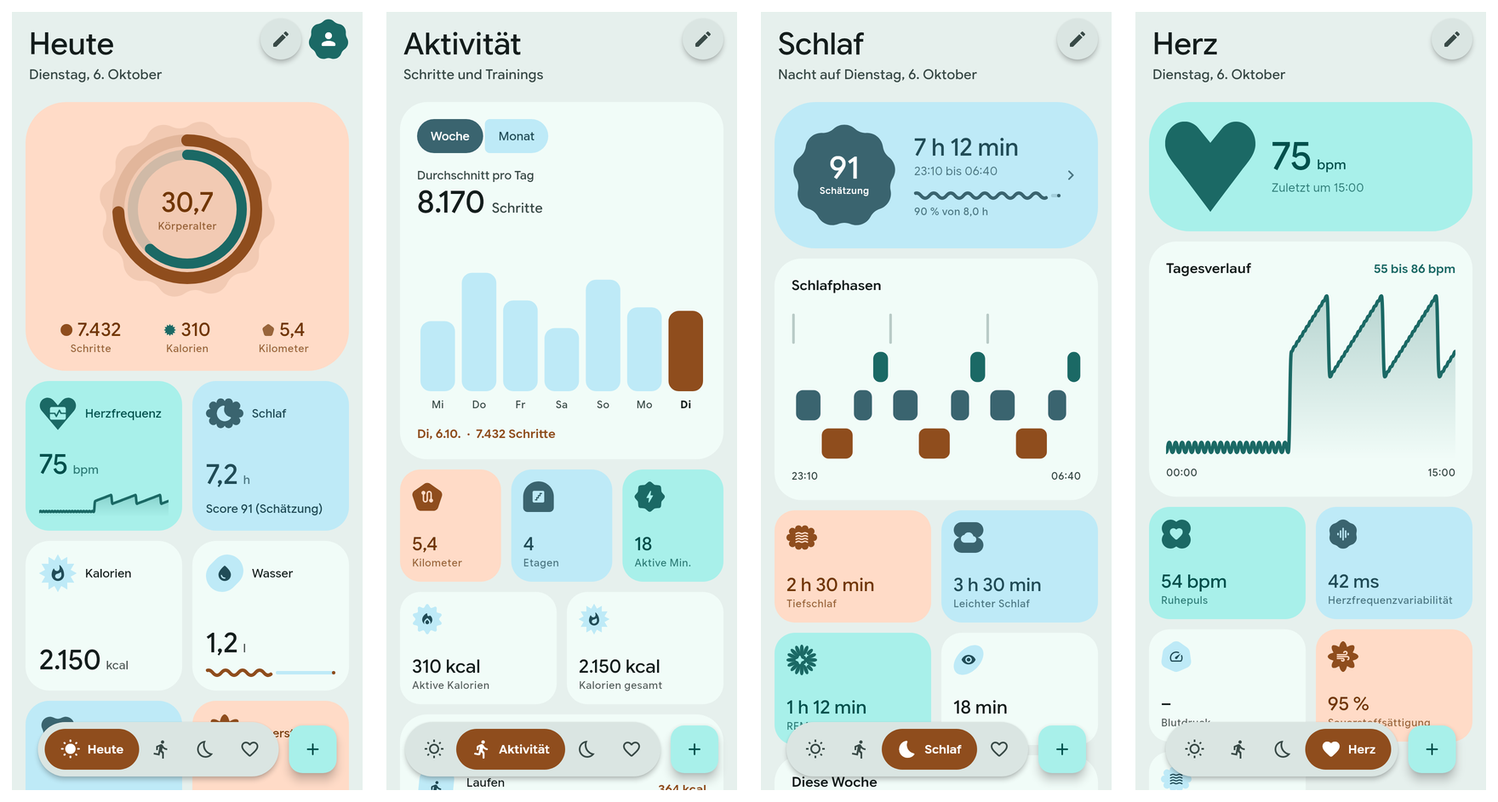
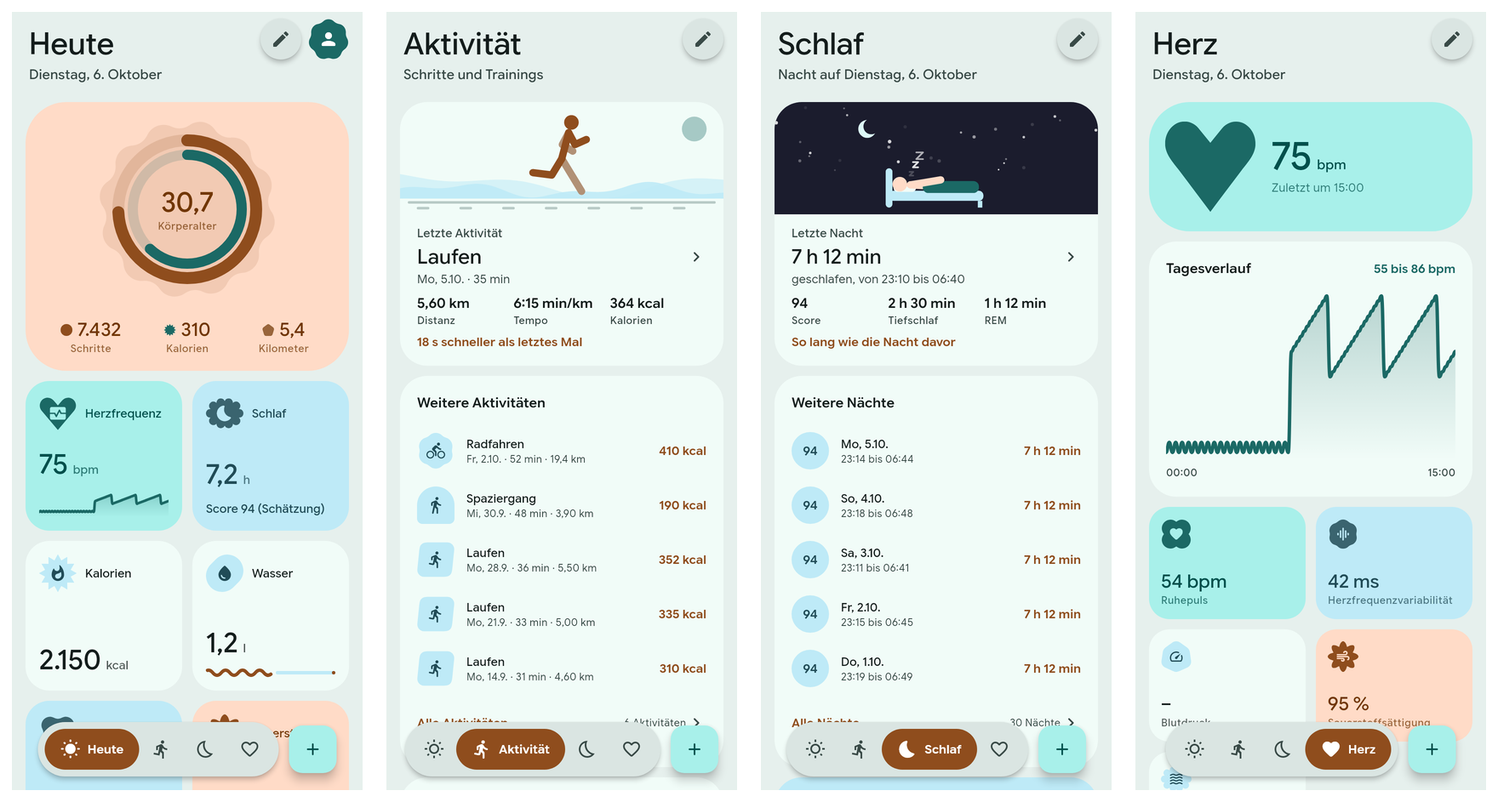
docs: rewrite the README around pages, sleep, activities and Liquid Glass

diff --git a/README.md b/README.md
@@ -1,7 +1,7 @@
 <div align="center">
   <img src="readmestuff/app_icon_512.png" width="96" height="96" alt="Pulse logo" />
   <h1>Pulse</h1>
-  <p><strong>A health app for Android in Material 3 Expressive. It reads your data from Health Connect, keeps up to ten years of daily values on the phone, and sends nothing anywhere.</strong></p>
+  <p><strong>A health app for Android in Material 3 Expressive. It reads your data from Health Connect, keeps up to ten years of it on the phone, and sends nothing anywhere.</strong></p>
 
   <p>
     <img src="https://img.shields.io/badge/Platform-Android%208.0+-neutral?style=flat-square" alt="Platform" />
@@ -9,7 +9,9 @@
     <img src="https://img.shields.io/badge/Design-Material%203%20Expressive-neutral?style=flat-square" alt="Design Language" />
     <img src="https://img.shields.io/badge/Data-Health%20Connect-neutral?style=flat-square" alt="Data Source" />
     <img src="https://img.shields.io/badge/Storage-Local%20JSON-neutral?style=flat-square" alt="Storage" />
+    <img src="https://img.shields.io/badge/Languages-de%20%7C%20en%20%7C%20pl-neutral?style=flat-square" alt="Languages" />
     <img src="https://img.shields.io/badge/Telemetry-None-neutral?style=flat-square" alt="No Telemetry" />
+    <img src="https://img.shields.io/badge/License-MIT-neutral?style=flat-square" alt="License" />
   </p>
 </div>
 
@@ -17,34 +19,50 @@
 
 ![Pulse: Heute, Aktivität, Schlaf and Herz](readmestuff/hero.png)
 
-The screenshots on this page are rendered by the widget tests from **fixture data**, not from a person's health records.
+Every image on this page is rendered by the widget tests from **fixture data**, not from a person's health records. The page names are the German ones; the app also speaks English and Polish.
+
+---
+
+## What It Is
+
+**Pulse** is a **Flutter** app with one data source: **Health Connect** on the phone. Steps, sleep, heart rate, workouts and the rest arrive from the phone, a **Fitbit** or any other app that writes there, without a separate sign-in. There is no server, no account and no analytics, and a release build does not hold the **`INTERNET`** permission.
+
+| Page | Shows | Opens |
+| :--- | :--- | :--- |
+| **Heute** | Today's tiles, chosen and ordered by the user | A metric's period tabs, the body age |
+| **Aktivität** | The latest workout as an animated scene, the five before it, activity metrics | One workout, the list of all workouts |
+| **Schlaf** | The latest night played back, the five before it, a bedtime for tonight | One night, the list of all nights |
+| **Herz** | Heart rate, resting heart rate, variability and the other vitals | A metric's period tabs |
+| **Profil** | Goals, date of birth and sex, theme, Material You, Liquid Glass, language | |
 
 ---
 
 ## Architecture Overview
 
-**Pulse** is a **Flutter** app with one data source: **Health Connect** on the phone. There is no server, no account and no analytics. One file in the code base talks to the **`health`** plugin; everything above it works on plain Dart values and is tested without a device.
+One file in the code base talks to the **`health`** plugin. Everything above it works on plain Dart values and is tested without a device.
 
 ```mermaid
 flowchart TD
     subgraph UI ["Interface Layer"]
-        Shell["App Shell<br/><b>Floating Navigation Bar & FAB Menu</b>"]
+        Shell["App Shell<br/><b>Floating Navigation Bar & Add Menu</b>"]
         Boards["Tile Boards<br/><b>Heute, Aktivität, Schlaf, Herz</b>"]
-        Detail["Detail Pages<br/><b>Period Tabs, Entries, Sleep, Body Age</b>"]
-        Sheet["Entry Sheet<br/><b>Water, Weight, Meals</b>"]
+        Detail["Sub Pages<br/><b>Period Tabs, Night, Workout, Body Age</b>"]
+        Scenes["Scenes<br/><b>Workout Figure, Night Sky</b>"]
+        Glass["Glass Kit<br/><b>Bar, Rim, Scope</b>"]
     end
 
     subgraph State ["State Layer"]
         HealthCtrl["HealthController<br/><b>Access, Refresh, Backfill, Entries</b>"]
-        SettingsCtrl["SettingsController<br/><b>Goals, Theme, Tile Order</b>"]
+        SettingsCtrl["SettingsController<br/><b>Goals, Theme, Tiles, Glass</b>"]
         Palette["System Palette<br/><b>Material You Colours</b>"]
     end
 
     subgraph Data ["Data Layer (pure Dart)"]
         Builder["buildSnapshot<br/><b>Raw Readings to 30 Days</b>"]
         Period["buildPeriod<br/><b>Averages, Bars, Comparison</b>"]
-        Age["estimateBodyAge<br/><b>Years per Factor, 30 Days</b>"]
+        Insights["Insights<br/><b>Body Age, Sleep Score, Hints</b>"]
         History["HistoryArchive<br/><b>One Value per Day, 10 Years</b>"]
+        Archives["Night & Workout Archives<br/><b>Every Night, Every Workout</b>"]
         Store["FileJsonStore<br/><b>Private App Directory</b>"]
     end
 
@@ -55,24 +73,26 @@ flowchart TD
     end
 
     Shell --> Boards
+    Shell --> Glass
     Boards --> Detail
-    Shell --> Sheet
+    Boards --> Scenes
     Boards --> HealthCtrl
     Boards --> SettingsCtrl
-    Detail --> HealthCtrl
     Detail --> Period
-    Detail --> Age
-    Sheet --> HealthCtrl
+    Detail --> Insights
     Shell --> Palette
     HealthCtrl --> Repo
     HealthCtrl --> History
+    HealthCtrl --> Archives
     Repo --> Builder
     Repo --> HC
     Worker --> Repo
     Worker --> History
+    Worker --> Archives
     Period --> History
+    Insights --> Archives
     History --> Store
-    HealthCtrl --> Store
+    Archives --> Store
     SettingsCtrl --> Store
 ```
 
@@ -85,7 +105,7 @@ sequenceDiagram
     participant HC as Health Connect
     participant Disk as FileJsonStore
 
-    App->>Disk: read saved snapshot and year files
+    App->>Disk: read saved snapshot, year files and archives
     App-->>App: show saved data at once
     App->>Repo: load(now)
     Repo->>HC: daily totals (aggregated), samples, sleep, workouts
@@ -93,10 +113,11 @@ sequenceDiagram
     Repo-->>App: snapshot of 30 days
     App->>Disk: write snapshot
     App->>Disk: merge days into history-YYYY
+    App->>Disk: merge nights and workouts into their archives
     opt first run with history access
-        App->>Repo: loadHistory in 90-day stretches, backwards
-        Repo-->>App: one value per day and metric
-        App->>Disk: merge, remember how far it got
+        App->>Repo: older days, nights and workouts in 90-day stretches, backwards
+        Repo-->>App: one stretch at a time
+        App->>Disk: merge, remember how far each load got
     end
 ```
 
@@ -104,42 +125,101 @@ sequenceDiagram
 
 ## Core Capabilities
 
-- **Health Connect as the Only Source:** Steps, distance, calories, sleep, heart rate and the rest come from **Health Connect**, so data from the phone, a **Fitbit** or any other app that writes there shows up without a separate sign-in.
-- **No Double Counting:** Daily totals use Health Connect's own **aggregation**, which removes the overlap when a phone and a wearable both count the same steps.
-- **Four Pages of Tiles:** **Heute**, **Aktivität**, **Schlaf** and **Herz**. **Heute** always shows the current day.
-- **Your Own Heute Page:** In edit mode every tile has a **minus** to remove it, and a list below the board offers every measurement Health Connect has data for, each with a **plus**. Every tile comes in two sizes: **small** (half width, the value) and **large** (full width, with the last seven days as bars, or today's curve for the heart rate).
-- **Steps Tile with Two Rings and a Body Age:** The large steps tile draws the steps as the outer ring and the **active calories** as the inner one, each against its goal, with steps, calories and distance underneath. In the middle is the **body age**: the real age plus or minus some years for steps, intensity minutes, sleep duration, sleep rhythm, resting heart rate, heart rate variability, body mass index or body fat, blood pressure and strength training over the last 30 days. Tapping it opens a page that lists every factor with your value, the value it is judged against and the years it adds or takes. It needs the **date of birth** from the profile.
-- **Latest Value for Rare Measurements:** Weight, blood pressure, the one resting heart rate a day and similar show the most recent reading, on a tile and on the detail page's **Heute** tab, with its day instead of a dash when there is none today. Totals such as steps stay strictly on today.
-- **Period Tabs on Every Metric:** Tapping a tile opens **Heute**, **Gestern**, **Woche**, **Monat**, **Jahr** and **Gesamt** in a toolbar floating at the bottom of the page, each with its average, a bar chart, the highest and lowest value, a sentence comparing it to the span before, and arrows to page back. Sleep is the exception: its tile opens the detailed sleep page from everywhere.
-- **Detailed Sleep Page:** For the selected night: time asleep and in bed, efficiency, the stages as a hypnogram and each against a guide range, bedtime and waking of the last 30 nights, the sleep debt of seven nights, the pulse during the night, and the night's vitals against your own usual range.
-- **Ten Years of History:** One value per day and metric is kept in one **JSON** file per calendar year. Older data already in Health Connect is loaded once, in **90-day** stretches.
-- **Edit Mode:** The pencil floating at the top right of a page makes the tiles wiggle. Hold one and drag it; the others move out of the way and the order is saved per page. On **Aktivität**, **Schlaf** and **Herz** a **minus** takes a tile off the page and a list below the board brings it back; the compact measurement tiles there can be enlarged to the wide form with the last seven days.
-- **All Measurements on Demand:** A switch that only appears in edit mode appends every metric with data to the **Heute** page, grouped by kind.
-- **Own Entries:** Add **water**, **weight** and **meals** (calories, carbohydrates, protein, fat, fibre, sugar) from the **+** button. They are written to Health Connect. Entries made by Pulse can be edited and deleted; entries from other apps are shown but cannot be changed, because Health Connect does not allow it.
-- **Three Languages:** German, English and Polish, with numbers, dates and plurals written as each language does (**7.432** / **7,432** / **7 432**; "1 krok, 2 kroki, 5 kroków"). The app follows the system language and falls back to English for any other. A row in the profile opens a sheet with **System / Deutsch / English / Polski**. On **Android 13** and newer the choice is the language Android keeps per app, so the system's own *App languages* page and the profile show and set the same value; before that it is a setting of the app. Units stay metric in every language. The page names in this document are the German ones. ***Tested*** by widget tests of every page in English and Polish at both screen sizes, and on an **Android 17** emulator: the choice set in the profile was read back with `cmd locale get-app-locales`, a change made from the system side rebuilt the open app, and the system's page lists exactly the three languages. The Polish text is not reviewed by a native speaker.
-- **Material You:** The colour scheme follows the phone's wallpaper. It can be switched off in the profile, which falls back to the app's own palette. Light, dark or system.
-- **No App Bar:** No page has a fixed bar at its top; the content scrolls behind the transparent **status bar**. On the four main pages the **pencil** and, on **Heute**, the **profile button** float at the top right and stay there while the page scrolls. A page opened from another one has a round floating **back button**; once its large title has scrolled away, a **pill** with the page's name appears next to the button. ***Tested*** by widget tests with a simulated status bar and by stills of an **Android 17** emulator in both themes, with and without glass. Not looked at on a phone.
-- **Navigation:** The selected pill of the floating bar can be dragged to another destination; the page changes when it is let go. The period tabs of a metric work the same way.
-- **Liquid Glass:** A switch in the profile turns the **navigation bar**, the **period tabs**, the **floating buttons** and title pill at the top, the **add button** and its menu into clear glass that bends the page beneath it at its edge, and the tiles into translucent glass over soft colour fields. The selected pill is a second piece of glass lying on its bar, tinted in the primary colour; while it is dragged it becomes a clear lens. The entries of the add button flow out of it as drops. The light **rim** and the **shadow** of each piece are painted by the app, not by the renderer. Shapes, colours and motion stay Material 3 Expressive. Off by default. ***Tested*** by widget tests in a blurred fallback and by stills and a screen recording on a **Pixel 8** emulator under **Vulkan**, in the light theme. On a **Pixel 10 Pro** this state is ***built*** only; an earlier one was recorded there.
-- **Background Refresh:** A **WorkManager** task refreshes the stored data about once an hour, so the app opens with current values and no day is lost if it stays closed for longer than Health Connect's 30-day window.
-- **Haptics:** Distinct feedback for selecting, tapping, lifting a tile and confirming.
-- **Spring Motion and Shapes:** Page changes, tile movement and the container transform into a detail page run on **Material 3 Expressive** spring tokens; badges and the profile button use the expressive shape set. The shape behind the rings of the steps tile turns once in **90 seconds** and stands still when the system switches animations off.
+- **Health Connect as the Only Source:** Daily totals use Health Connect's own **aggregation**, which removes the overlap when a phone and a wearable both count the same steps.
+- **Your Own Heute Page:** In edit mode every tile has a **minus** to remove it, and a list below the board offers every measurement with data, each with a **plus**. Every tile comes in two sizes: **small** (half width, the value) and **large** (full width, with the last seven days as bars, or today's curve for the heart rate).
+- **Edit Mode:** The floating **pencil** makes the tiles wiggle. Hold one and drag it; the others move out of the way and the order is saved per page. Tiles on **Aktivität**, **Schlaf** and **Herz** can be removed, brought back and enlarged the same way.
+- **Period Tabs on Every Metric:** **Heute**, **Gestern**, **Woche**, **Monat**, **Jahr** and **Gesamt** in a toolbar floating at the bottom, each with its average, a bar chart, the highest and lowest value, a sentence comparing it to the span before, and arrows to page back.
+- **Latest Value for Rare Measurements:** Weight, blood pressure and the one resting heart rate a day show the most recent reading with its day instead of a dash. Totals such as steps stay strictly on today.
+- **Ten Years of History:** One value per day and metric in one **JSON** file per calendar year. Older data already in Health Connect is loaded once, in **90-day** stretches.
+- **Own Entries:** **Water**, **weight** and **meals** (calories, carbohydrates, protein, fat, fibre, sugar) from the **+** button, written to Health Connect. Entries made by Pulse can be edited and deleted; entries from other apps cannot, because Health Connect does not allow it.
+- **No App Bar:** Content scrolls behind the transparent **status bar**. The **pencil** and the **profile button** float at the top right; a sub page has a round floating **back button** and, once its title has scrolled away, a **pill** with the page's name.
+- **Draggable Navigation:** The selected pill of the floating bar can be dragged to another destination; the page changes when it is let go. The period tabs work the same way.
+- **Three Languages:** **German**, **English** and **Polish**, with numbers, dates and plurals as each language writes them (**7.432** / **7,432** / **7 432**). On **Android 13** and newer the choice is the language Android keeps per app; before that it is a setting of the app. Any other system language gets English. Units stay metric.
+- **Material You:** The colour scheme follows the phone's wallpaper, or the app's own palette when switched off. Light, dark or system.
+- **Background Refresh:** A **WorkManager** task refreshes the stored data about once an hour, so no day is lost if the app stays closed for longer than Health Connect's 30-day window.
+- **Motion, Shapes and Haptics:** Page changes, tile movement and the container transform into a sub page run on **Material 3 Expressive** spring tokens, with the expressive shape set and distinct haptics for selecting, tapping, lifting and confirming. **Predictive back** shrinks the page under the finger.
 
 ![The floating period tabs on the steps metric: Heute, Woche, Jahr and Gesamt](readmestuff/detail.png)
 
+![Edit mode with a lifted tile, the list of tiles to add, tiles in both sizes, and the dark theme](readmestuff/editing.png)
+
+---
+
+## Steps and Body Age
+
+The large steps tile draws the **steps** as the outer ring and the **active calories** as the inner one, each against its goal, over a shape that turns once in **90 seconds**. In the middle is the **body age**: the real age plus or minus some years, judged over the last 30 days.
+
+| Factor | Read From |
+| :--- | :--- |
+| **Movement** | Steps, intensity minutes, strength training |
+| **Sleep** | Duration, regularity of bedtime and waking |
+| **Heart** | Resting heart rate, heart rate variability, blood pressure |
+| **Body** | Body fat, or body mass index when there is none |
+
+Tapping the age opens a page that lists every factor with your value, the value it is judged against and the years it adds or takes. It needs the **date of birth** from the profile.
+
 ![The steps tile with both rings and the body age, and the page that explains the age factor by factor](readmestuff/age.png)
 
-![Edit mode with a lifted tile, the list of tiles to add, tiles in both sizes, and the dark theme](readmestuff/editing.png)
+---
+
+## Sleep
+
+- **The Night Played Back:** At the top of **Schlaf** the latest night runs in twelve seconds. The moon crosses a sky that follows the stages (darkest in deep sleep, dawn at the end), with more stars the better the score and clouds on a poor night. Beneath it a figure sleeps in bed: it snores in deep sleep, dreams in REM and sits up whenever the user was awake.
+- **A Page per Night:** The **score** with what each of its four parts gave, time asleep and in bed, efficiency, the stages as blocks that name the one under the finger, each stage against a guide range, bedtime and waking of the 30 days up to it, the sleep debt of seven nights, and the pulse and measurements of the night.
+- **Comparison:** Every number against the night before and the average of the week before.
+- **Observations:** How nights after a workout, or after a day above the step goal, differ. They need five nights on each side and ten minutes of difference, and are worded as what went together, not as a cause.
+- **Hints:** Up to three, from fixed rules over the user's own numbers. Not medical advice.
+- **Tonight:** A bedtime counted back from the usual time of getting up, a little earlier while the week is in debt.
+- **All Nights:** Every night the app has seen is kept in an archive of its own, one file per year, and listed.
+
+| Part of the Score | Points | Judged Against |
+| :--- | :--- | :--- |
+| **Time asleep** | up to **40** | The sleep goal |
+| **Deep and REM** | up to **25** | The lower end of what is typical for each share |
+| **Efficiency** | up to **20** | Between 70 and 90 % of the time in bed |
+| **Bedtime** | up to **15** | Within 15 to 90 minutes of the mean of the week before |
+
+A part that cannot be judged (no stages recorded, fewer than three nights before) is left out and the rest scaled to a hundred. The score is the app's own rule, not a measurement; Health Connect stores none.
+
+![The sleep page with the night played back, the score in its four parts, the stages and the hints with the nights before](readmestuff/sleep.png)
+
+---
+
+## Activities
+
+- **The Latest Workout as a Scene:** A small figure drawn by the app walks, runs, hikes, rides, swims, lifts or breathes in front of a passing landscape, above the workout's numbers and one sentence on how it went against the one before.
+- **A Page per Workout:** Every number with a mark for a **personal best**, each number against the workout before and the average of the last five, a chart of the last twelve of the kind, and how often per week.
+- **Hints:** Up to three, from fixed rules: a long break, doing it less often, a jump of more than a quarter over the average, the same pace at a higher pulse, strength less than twice a week. Not medical advice.
+- **All Workouts:** Month by month, with a filter for the kind. Health Connect only hands out a recent window, so every workout the app sees is kept in an archive of its own, with the average and highest heart rate of the session worked out while the app still has that day's curve.
+
+![The latest activity with its animation, the page about one workout, and the list of all of them](readmestuff/activities.png)
+
+---
+
+## Liquid Glass
+
+A switch in the profile, **off by default**. Shapes, colours and motion stay Material 3 Expressive; only the material changes.
+
+| Piece | As Glass |
+| :--- | :--- |
+| **Navigation bar**, **period tabs** | Clear glass that bends the page beneath it at its edge |
+| **Selected pill** | A second piece of glass lying on its bar, tinted in the primary colour; a clear lens while it is dragged |
+| **Add button and its menu** | Glass drops in one blend group: the entries flow out of the button and merge back into it |
+| **Floating buttons**, **title pill** | Glass like the navigation bar |
+| **Tiles** | Translucent glass over soft colour fields, without refraction |
+| **Rim and shadow** | Painted by the app for each piece, not by the renderer |
+
+The refraction comes from **`liquid_glass_renderer`**, which needs **Impeller**. Without it the app falls back to a plain blur.
 
 ![Liquid Glass: the Heute page, the add menu open, the pill being dragged along the bar, and the dark theme](readmestuff/glass.png)
 
-The Liquid Glass images show the blurred fallback, because the test renderer has no Impeller, and were rendered before the pills became glass and the rim was painted by the app. On a phone the bars, their pills and the add button also bend what is behind them.
+This image shows the **blurred fallback**, because the test renderer has no Impeller, and it was rendered before the pills became glass and the rim was painted by the app. On a phone the bars, their pills and the add button also bend what is behind them.
 
 ---
 
 ## Measurements
 
-**33** metrics in five groups. A day's value follows one rule per metric: the **sum** of the day, the **average** of its readings, or the **last** reading.
+**32** metrics in five groups. A day's value follows one rule per metric: the **sum** of the day, the **average** of its readings, or the **last** reading.
 
 | Group | Metrics | Day Rule |
 | :--- | :--- | :--- |
@@ -151,13 +231,11 @@ The Liquid Glass images show the blurred fallback, because the test renderer has
 | **Sleep** | Sleep duration, with stages where the source records them | **Sum** |
 | **Nutrition** | Water, calories eaten, carbohydrates, protein, fat, fibre, sugar | **Sum** |
 
-Workouts are read as sessions with type, duration, distance and calories.
+**Workouts** are read as sessions with type, duration, distance, calories and steps.
 
 **Not included:** elevation gained, power, **VO2 max**, bone mass and mindfulness sessions, because the **`health`** plugin cannot read them on Android. Cycle tracking and medical records are deliberately not requested.
 
----
-
-## Period Tabs
+### Period Tabs
 
 | Tab | Bars | Headline |
 | :--- | :--- | :--- |
@@ -175,11 +253,25 @@ An average counts only days **with** data; a day without a measurement is not a 
 
 | Platform | Runner | Status |
 | :--- | :--- | :--- |
-| **Android 8.0+** (API 26) | **`android/`** | ***Tested*** in part: on a **Pixel 10 Pro** the app read 30 days of real data and loaded older data back to 2017; steps and energy agreed with the Fitbit app once it had synced to Health Connect. Writing, editing and deleting an entry have ***not*** been tested on a device yet |
+| **Android 8.0+** (API 26) | **`android/`** | ***Tested*** in part, see below |
 | **Linux** | **GTK3** (`linux/`) | ***Built.*** For development only; it has no health data source and shows a notice |
 | **iOS, macOS, Windows, Web** | none | Not supported. Health Connect exists only on Android |
 
-Everything above the plugin is ***tested*** by **286** unit and widget tests against an in-memory fixture store, at **360 x 640** and **412 x 915**.
+### What Has Been Verified
+
+Everything above the plugin is ***tested*** by **371** unit and widget tests against an in-memory fixture store, at **360 x 640** and **412 x 915**, in all three languages.
+
+| Area | Status |
+| :--- | :--- |
+| **Reading Health Connect** | ***Tested*** on a **Pixel 10 Pro**: 30 days of real data, and older data back to 2017; steps and energy agreed with the Fitbit app once it had synced |
+| **Writing, editing, deleting an entry** | ***Tested*** against the fixture store only, not on a device |
+| **Sleep pages, score, hints** | ***Tested*** by unit and widget tests with nights of every kind; the sleep page was seen on an **Android 17** emulator with invented data |
+| **Activity pages, hints** | ***Tested*** by unit tests of every rule and widget tests of every kind of workout; seen on the emulator with invented data |
+| **Loading older nights and workouts** | ***Tested*** against the fixture store, ***built*** against Health Connect |
+| **Language choice** | ***Tested*** on the emulator: set in the profile and read back with `cmd locale get-app-locales`, and set from the system side while the app was open |
+| **Floating buttons and title pill** | ***Tested*** by widget tests with a simulated status bar and by emulator stills in both themes |
+| **Liquid Glass** | ***Tested*** by widget tests in the blurred fallback, and by stills and a recording on a **Pixel 8** emulator under **Vulkan** in the light theme. On the **Pixel 10 Pro** the current state is ***built*** only |
+| **Polish text** | Not reviewed by a native speaker |
 
 ---
 
@@ -249,8 +341,10 @@ Everything is kept in the app's private support directory (**`/data/data/at.haid
 | :--- | :--- |
 | **`snapshot.json`** | The last 30 days in full: daily values, sleep stages, heart samples, workouts, entries |
 | **`history-YYYY.json`** | One value per day and metric for that calendar year. Files older than ten years are removed at start |
+| **`nights-YYYY.json`** | Every night that ended in that calendar year: its times and the minutes in each stage, without the curve. Nothing is removed |
+| **`workouts.json`** | Every workout the app has seen, oldest first. Nothing is removed |
 | **`settings.json`** | Goals, date of birth and sex, theme, the Material You and Liquid Glass switches, the language (only before Android 13), tile order per page, the tiles on Heute and their sizes |
-| **`backfill.json`** | How far back the one-time load of older data has reached |
+| **`backfill.json`**, **`nightBackfill.json`**, **`workoutBackfill.json`** | How far back each one-time load of older data has reached |
 
 Every value read from disk or from Health Connect is checked against the bounds in the metric catalog; a reading outside them is dropped.
 
@@ -259,12 +353,14 @@ Every value read from disk or from Health Connect is checked against the bounds 
 ## Known Limits
 
 - **Heart rate:** single samples are loaded for the last **8 days**. The daily average is therefore not backfilled and only builds up from use; resting heart rate is.
+- **Workouts:** the heart rate of a workout is only known if the app read it within those **8 days**; older workouts loaded later have none. There are no routes or maps.
+- **Nights:** the curve of the stages exists for the last 30 days only; older nights keep their times and the minutes in each stage.
+- **One-time loads:** a failed read of one stretch of older nights or workouts is not retried.
 - **Hourly bars:** only for steps, distance, active and total calories, water and intensity minutes.
-- **Body age:** the app's own estimate. The values it is judged against follow common guidance; the years each factor is worth are constants of this app and are not validated. It is not a medical statement, and it does not use **VO2 max**, which the plugin cannot read.
-- **Sleep score:** the app's own estimate from duration and stages. Health Connect stores none.
+- **Body age and sleep score:** the app's own estimates. The values they are judged against follow common guidance; the years and points each part is worth are constants of this app and are not validated. Neither is a medical statement, and the body age does not use **VO2 max**, which the plugin cannot read.
+- **Liquid Glass:** relies on a pre-release package. Tiles do not refract, because that made scrolling stutter. The sub pages and sheets themselves stay solid; only their floating tabs, back button and title pill are glass. The status bar has no veil of its own, so its clock can stand on scrolled text. The dark theme of the current glass has not been looked at on a device.
 - **Navigation labels:** the selected destination shows its name only if the longest name fits beside the add button. In Polish at 412 pixels it misses by a few pixels, so the bar shows icons only there.
 - **Orientation:** portrait only.
-- **Liquid Glass:** relies on a pre-release package that needs Impeller; elsewhere it falls back to a plain blur. Tiles do not refract, because that made scrolling stutter. Only the four main pages turn to glass, not the detail page or the sheets; the detail page's floating tabs, back button and title pill are glass like the navigation bar. The status bar has no veil of its own, so its clock can stand on scrolled text. The dark theme of the current glass has not been looked at on a device.
 
 ---
 
@@ -280,7 +376,7 @@ Every value read from disk or from Health Connect is checked against the bounds 
 | **`dynamic_color`** | The system colour palette |
 | **`liquid_glass_renderer`** | The refracting glass of the Liquid Glass switch; Flutter itself can only blur |
 | **`path_provider`** | The private directory |
-| **`flutter_localizations`**, **`intl`** | The translations generated from **`lib/l10n/app_*.arb`**, and numbers and dates per language. Both ship with `material_ui` already |
+| **`flutter_localizations`**, **`intl`** | The translations generated from **`lib/l10n/app_*.arb`**, and numbers and dates per language |
 
 The bundled typeface is **Google Sans Flex**, under the **SIL Open Font License** (see [`assets/fonts/OFL.txt`](assets/fonts/OFL.txt)).
 
